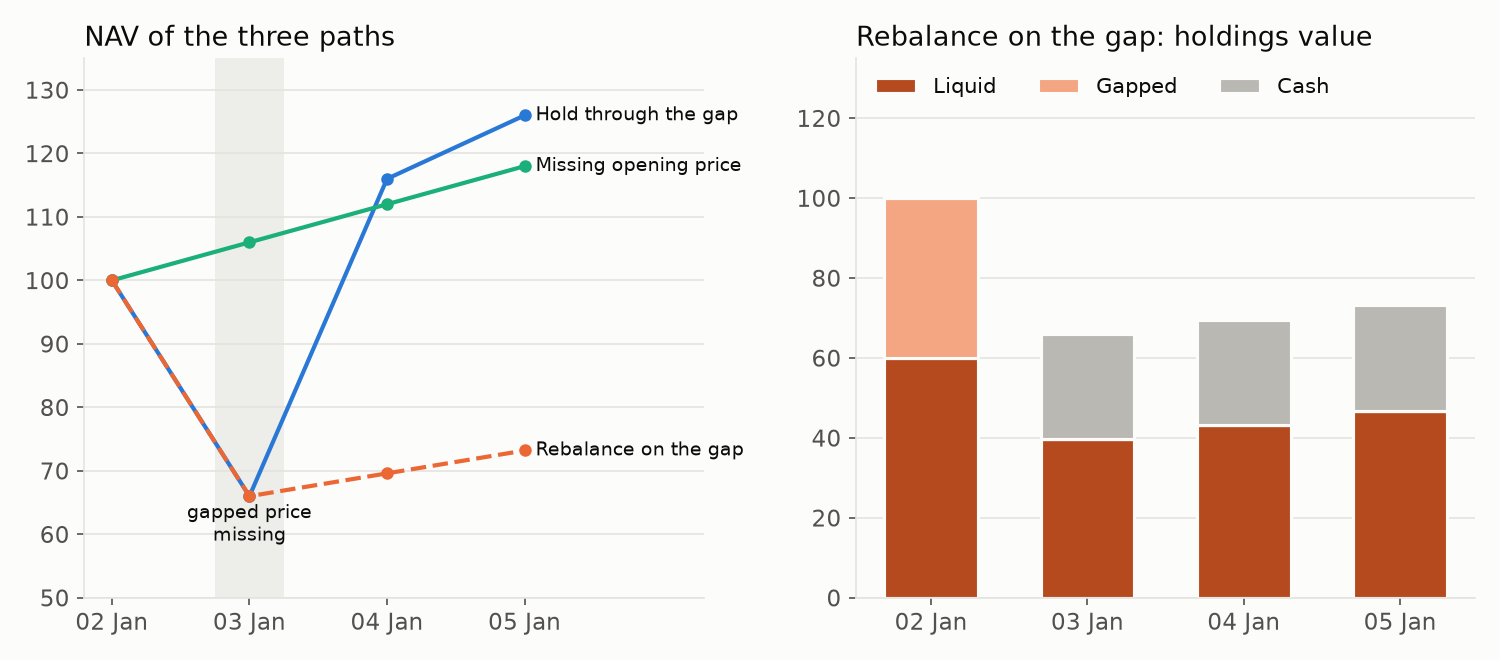
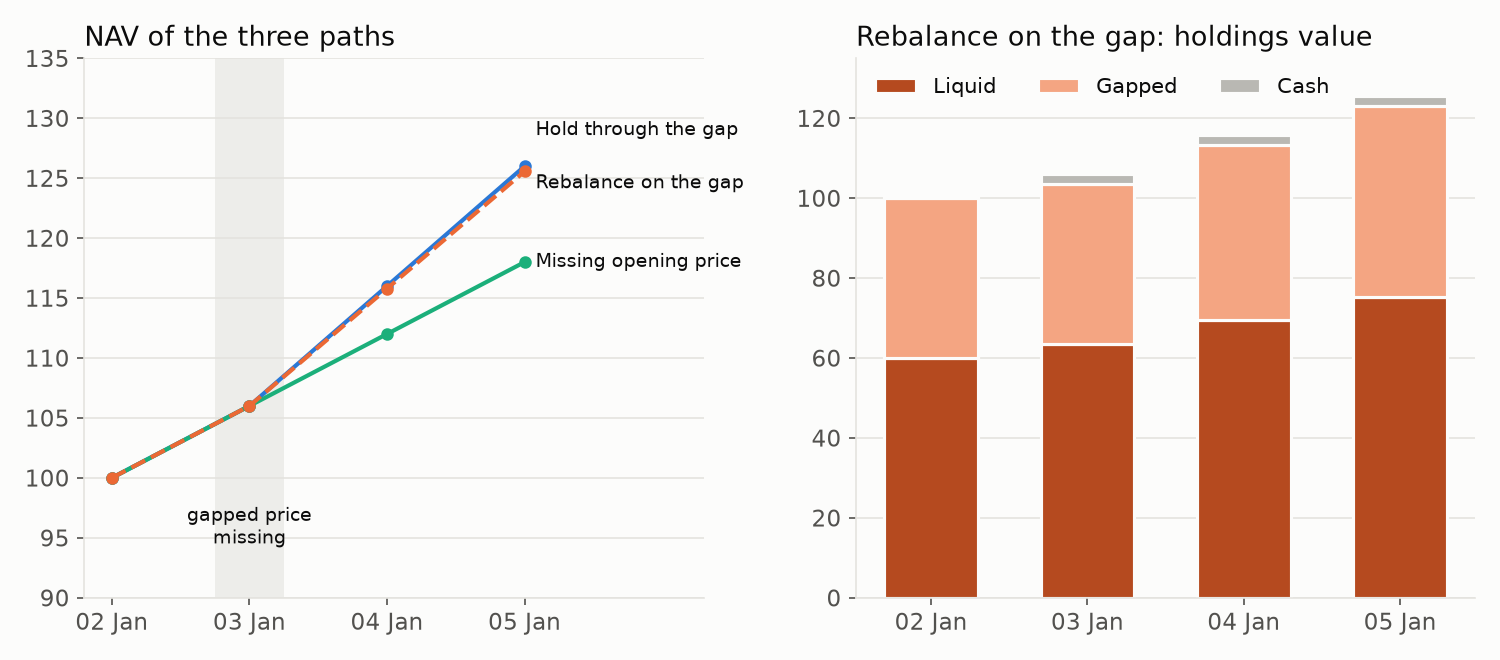
fix: keep dependency compatibility documentation checks current

diff --git a/examples/docs/incomplete_histories.py b/examples/docs/incomplete_histories.py
@@ -13,6 +13,7 @@ constants below and records their values.
 """
 from dataclasses import replace
 from fractions import Fraction
+from importlib.metadata import version
 
 import numpy as np
 import pandas as pd
@@ -22,13 +23,18 @@ LIQUID_PRICES = [100.0, 110.0, 120.0, 130.0]
 GAPPED_PRICES = [100.0, None, 110.0, 120.0]
 TARGET_WEIGHTS = [0.60, 0.40]
 
+# QIS 5.37 introduced last-known valuation marks and retained unquoted holdings.
+# Check each released contract independently; do not infer expected values from a backtest.
+RETAINS_MISSING_HOLDINGS = tuple(map(int, version('qis').split('.')[:2])) >= (5, 37)
+
 
 def currency_ledger() -> dict:
     """Units, NAV and cash of the three holdings paths, from exact fractions and one trade."""
     first_liquid, first_gapped = Fraction(3, 5), Fraction(2, 5)
-    priced_nav = first_liquid * 110
+    retained_gapped = first_gapped if RETAINS_MISSING_HOLDINGS else 0
+    priced_nav = first_liquid * 110 + retained_gapped * 100
     new_liquid = priced_nav * Fraction(3, 5) / 110
-    cash = (first_liquid - new_liquid) * 110
+    cash = priced_nav - new_liquid * 110 - retained_gapped * 100
     return {
         'held_gap': {
             'units': [[first_liquid, first_gapped]] * 4,
@@ -37,8 +43,9 @@ def currency_ledger() -> dict:
             'cash': [0] * 4,
         },
         'traded_gap': {
-            'units': [[first_liquid, first_gapped]] + [[new_liquid, 0]] * 3,
-            'nav': [100, priced_nav, new_liquid * 120 + cash, new_liquid * 130 + cash],
+            'units': [[first_liquid, first_gapped]] + [[new_liquid, retained_gapped]] * 3,
+            'nav': [100, priced_nav, new_liquid * 120 + retained_gapped * 110 + cash,
+                    new_liquid * 130 + retained_gapped * 120 + cash],
             'cash': [0, cash, cash, cash],
         },
         'late_entry': {
@@ -197,19 +204,27 @@ def main() -> None:
         np.testing.assert_allclose(portfolio.nav, np.array(expected["nav"], float), atol=1e-12)
         np.testing.assert_allclose(portfolio.units, np.array(expected["units"], float),
                                    atol=1e-12)
-        marked = (portfolio.units * portfolio.prices).sum(axis=1)
+        marks = portfolio.prices.ffill() if RETAINS_MISSING_HOLDINGS else portfolio.prices
+        marked = (portfolio.units * marks).sum(axis=1)
         np.testing.assert_allclose(portfolio.nav - marked, np.array(expected["cash"], float),
                                    atol=1e-12)
         np.testing.assert_allclose(portfolio.realized_costs, 0, atol=0)
     # The page's table, and the units and cash its paragraph quotes.
     table = np.array([ledger[name]["nav"] for name in paths], float).T
-    np.testing.assert_allclose(table, [[100.00, 100.00, 100.00], [66.00, 66.00, 106.00],
-                                       [116.00, 69.60, 112.00], [126.00, 73.20, 118.00]],
-                               atol=0.005)
-    assert float(ledger["traded_gap"]["units"][1][0]) == 0.36
-    assert float(ledger["traded_gap"]["cash"][1]) == 26.4
-    # Both interior gaps and both missing execution quotes are reported.
-    assert sum("inside the reported history" in m for m in warning_messages) == 2
+    if RETAINS_MISSING_HOLDINGS:
+        displayed = [[100.00, 100.00, 100.00], [106.00, 106.00, 106.00],
+                     [116.00, 115.78, 112.00], [126.00, 125.56, 118.00]]
+        assert ledger["traded_gap"]["units"][1] == [Fraction(159, 275), Fraction(2, 5)]
+        assert ledger["traded_gap"]["cash"][1] == Fraction(12, 5)
+        assert sum("units are retained without trading" in m for m in warning_messages) == 2
+    else:
+        displayed = [[100.00, 100.00, 100.00], [66.00, 66.00, 106.00],
+                     [116.00, 69.60, 112.00], [126.00, 73.20, 118.00]]
+        assert float(ledger["traded_gap"]["units"][1][0]) == 0.36
+        assert float(ledger["traded_gap"]["cash"][1]) == 26.4
+        assert sum("inside the reported history" in m for m in warning_messages) == 2
+    np.testing.assert_allclose(table, displayed, rtol=0, atol=0.005)
+    # Missing execution quotes remain explicit even when an existing position is retained.
     assert sum("have no price on their traded date" in m for m in warning_messages) == 2
     for name, portfolio in holdings_paths().items():
         pd.testing.assert_series_equal(portfolio.nav, paths[name].nav, check_freq=False)
@@ -280,10 +295,8 @@ def exhibit(path) -> dict:
               'late_entry': 'Missing opening price'}
     nav = pd.DataFrame({labels[name]: portfolio.nav for name, portfolio in paths.items()})
     traded = paths['traded_gap']
-    composition = pd.DataFrame({
-        'Liquid': traded.units['Liquid'] * traded.prices['Liquid'],
-        'Gapped': (traded.units['Gapped'] * traded.prices['Gapped']).fillna(0.0),
-    })
+    marks = traded.prices.ffill() if RETAINS_MISSING_HOLDINGS else traded.prices
+    composition = (traded.units * marks).fillna(0.0)
     composition['Cash'] = traded.nav - composition.sum(axis=1)
     table = pd.concat([nav, composition.add_prefix('rebalance on gap: ')], axis=1)
 
@@ -299,11 +312,15 @@ def exhibit(path) -> dict:
         dashed = label == labels['traded_gap']
         left.plot(x, series, color=colour, linewidth=2, marker='o', markersize=5,
                   linestyle='--' if dashed else '-', zorder=3 if dashed else 2)
-        left.text(x[-1] + 0.08, series.iloc[-1], label, color=ink, fontsize=9, va='center')
+        offset = (3 if label == labels['held_gap'] else -1 if dashed else 0)
+        offset = offset if RETAINS_MISSING_HOLDINGS else 0
+        left.text(x[-1] + 0.08, series.iloc[-1] + offset, label, color=ink, fontsize=9,
+                  va='center')
     left.axvspan(0.75, 1.25, color=grid, alpha=0.6, linewidth=0)
-    left.text(1.0, 58, 'gapped price\nmissing', color=ink, fontsize=9, ha='center', va='bottom')
+    left.text(1.0, 94 if RETAINS_MISSING_HOLDINGS else 58, 'gapped price\nmissing',
+              color=ink, fontsize=9, ha='center', va='bottom')
     left.set_title('NAV of the three paths', loc='left', color=ink)
-    left.set_ylim(50, 135)
+    left.set_ylim(90 if RETAINS_MISSING_HOLDINGS else 50, 135)
     left.set_xlim(-0.2, 4.3)
     bottom = np.zeros(len(composition))
     # Shades of the rebalance path's orange: these are its holdings, not the other paths.
@@ -328,8 +345,10 @@ def exhibit(path) -> dict:
         'nav_matches_ledger': bool(all(
             np.allclose(paths[name].nav, np.array(ledger[name]['nav'], float), atol=1e-12)
             for name in paths)),
-        'gapped_units_cleared_on_rebalance': bool(traded.units['Gapped'].iloc[1:].eq(0).all()),
-        'cash_left_after_clearing': bool(np.isclose(composition['Cash'].iloc[1], 26.4)),
+        'gapped_units_follow_released_contract': bool(traded.units['Gapped'].iloc[1:].eq(
+            TARGET_WEIGHTS[1] if RETAINS_MISSING_HOLDINGS else 0).all()),
+        'cash_matches_exact_ledger': bool(np.allclose(
+            composition['Cash'], np.array(ledger['traded_gap']['cash'], float), atol=1e-12)),
     }
     return {'table': table, 'checks': checks}
 

diff --git a/examples/docs/rolling_backtests.py b/examples/docs/rolling_backtests.py
@@ -20,6 +20,8 @@ import warnings
 import numpy as np
 import pandas as pd
 
+from examples.docs.incomplete_histories import RETAINS_MISSING_HOLDINGS
+
 # The exhibit's synthetic panel: business-day prices with these annual log drifts, volatilities
 # and correlations, and the page's minimum-variance path traded quarterly with lag one.
 EXHIBIT_ASSETS = ['Equity', 'Bonds', 'Diversifier']
@@ -363,8 +365,8 @@ def main() -> None:
                   prices=toy_prices, weights=tail.iloc[[-1]], weight_implementation_lag=1)
     assert_raises(ValueError, "resolve to", qis.backtest_model_portfolio,
                   prices=toy_prices.iloc[[0, 3]], weights=tail.iloc[[1, 2]])
-    # A missing execution price leaves that target weight in cash; an interior hole in a held
-    # asset's history removes its value from that observation's NAV.
+    # A missing opening execution price leaves that target weight in cash. Since QIS 5.37,
+    # an interior gap retains held units at the last observed valuation mark.
     unpriced_entry = toy_prices.astype(float)
     unpriced_entry.loc[toy_dates[1], "B"] = np.nan
     with expected_warning("have no price on their traded date"):
@@ -373,10 +375,15 @@ def main() -> None:
     assert stuck.units.loc[toy_dates[1], "B"] == 0.0 and stuck.nav.loc[toy_dates[1]] == 100.0
     holed = toy_prices.astype(float)
     holed.loc[toy_dates[2], "B"] = np.nan
-    with expected_warning("inside the reported history"):
+    gap_warning = "units are retained without trading" if RETAINS_MISSING_HOLDINGS else (
+        "inside the reported history")
+    with expected_warning(gap_warning):
         gapped = qis.backtest_model_portfolio(prices=holed, weights=toy_targets.iloc[[0]],
                                               weight_implementation_lag=1)
-    assert abs(gapped.nav.loc[toy_dates[2]] - 55.0) < 1e-12
+    expected_gap_nav = 105.0 if RETAINS_MISSING_HOLDINGS else 55.0
+    assert abs(gapped.nav.loc[toy_dates[2]] - expected_gap_nav) < 1e-12
+    np.testing.assert_allclose(gapped.units.loc[toy_dates[2]],
+                               gapped.units.loc[toy_dates[1]], rtol=0, atol=0)
 
     import numpy as np
     import pandas as pd

diff --git a/src/optimalportfolios/tests/version_metadata_test.py b/src/optimalportfolios/tests/version_metadata_test.py
@@ -15,6 +15,7 @@ import re
 import datetime as dt
 from pathlib import Path
 import runpy
+import sys
 from types import SimpleNamespace
 from typing import Optional
 
@@ -90,6 +91,8 @@ def test_citation_cff_date_released_is_iso():
         f"date-released must be YYYY-MM-DD, got {data['date-released']!r}"
 
 
+@pytest.mark.skipif(sys.version_info < (3, 11),
+                    reason='The release helper runs on Python 3.11+ and imports tomllib.')
 @pytest.mark.parametrize('release_date, accepted', [
     ('2026-10-15', True), ('2026-10-16', True), ('2026-10-17', False),
 ])

diff --git a/docs/incomplete_histories.md b/docs/incomplete_histories.md
@@ -72,10 +72,11 @@ Leading missing prices record a period before the first observation; trailing mi
 record a period after the last. Neither establishes the economic reason for the boundary.
 Define an eligibility and valuation policy rather than inferring one from `NaN`.
 
-An interior gap falls between valid observations. Between rebalancings, qis retains units
-through such a gap but excludes the unpriced leg from that date's NAV. The resulting drop and
-recovery need not be investment returns. A gap on a rebalance date has a different outcome,
-described under [price gaps at implementation](#price-gaps-at-implementation).
+An interior gap falls between valid observations. From qis 5.37, a missing quote retains
+held units at their last observed valuation mark, including on a rebalance date; it never
+enables a trade. Earlier supported releases omit the unpriced value from that date's NAV
+and can clear units on a rebalance. The resulting drop and recovery need not be investment
+returns. The [price-gap contract](#price-gaps-at-implementation) distinguishes these versions.
 
 `EwmaCovarEstimator` passes `NanBackfill.ZERO_FILL` to qis. For the ordinary covariance tensor,
 a non-finite covariance update resets that entry of the recursive state to zero. This is
@@ -141,22 +142,24 @@ for the full fallback contract.
 
 ### Price gaps at implementation
 
-The following describes the qis implementation of the locked environment, which the canonical
-script of this page checks. A missing opening price yields zero units for that leg; its intended allocation remains cash and is not redistributed.
+The executable example checks both supported qis contracts. A missing opening price yields
+zero units for that leg; its intended allocation remains cash and is not redistributed.
 When prices later appear, entry waits for another scheduled rebalance.
 
-For an already-held leg, the outcome depends on whether a rebalance occurs:
+For an already-held leg:
 
-| Missing-price date | Units and valuation |
-|---|---|
-| Between rebalancings | Existing units remain; their unpriced value is omitted from NAV. |
-| On a rebalance | The kernel recomputes target units, replaces the missing-price result with zero, and excludes that leg from the cash-transfer calculation. Previously held units can therefore be cleared without liquidation proceeds. |
+| Missing-price date | qis 5.37 and later | Earlier supported qis releases |
+|---|---|---|
+| Between rebalancings | Retain units, valued at the last observed mark. | Retain units, but omit their unpriced value from NAV. |
+| On a rebalance | Retain unquoted units without trading; quoted targets use full marked NAV. | Clear the unquoted units without liquidation proceeds. |
 
-The second case is an implementation limitation, not a model of a suspended instrument or a
-delisting recovery. Inspect and resolve the price/trading policy before interpreting such a
-path. An interior-gap warning does not distinguish the two cases. See the
+Last-known marks support valuation, never execution. Available targets are not redistributed
+and no cash constraint is imposed, so an untradeable holding can prevent the intended target
+weights being reached. Missingness alone is neither a loss nor a liquidation: terminal events
+need explicit settlement prices and exit targets. The older clearing behavior is an
+implementation limitation. See the
 [qis backtester source](https://github.com/ArturSepp/QuantInvestStrats/blob/main/src/qis/portfolio/backtester.py)
-and the executable example below.
+and the independent currency ledger in the executable example.
 
 A frozen decision-date target is also not an execution-level unit lock. The qis backtester
 does not receive the optimizer's per-asset `rebalancing_indicators`. Implementation lag, changed
@@ -275,32 +278,40 @@ with warnings.catch_warnings(record=True) as captured_warnings:
 warning_messages = [str(item.message) for item in captured_warnings]
 ```
 
+With qis 5.37 or later, the three NAV paths are:
+
 | Date | Hold through gap: NAV | Rebalance on gap: NAV | Missing opening price: NAV |
 |---|---:|---:|---:|
 | 2024-01-02 | 100.00 | 100.00 | 100.00 |
-| 2024-01-03 | 66.00 | 66.00 | 106.00 |
-| 2024-01-04 | 116.00 | 69.60 | 112.00 |
-| 2024-01-05 | 126.00 | 73.20 | 118.00 |
+| 2024-01-03 | 106.00 | 106.00 | 106.00 |
+| 2024-01-04 | 116.00 | 115.78 | 112.00 |
+| 2024-01-05 | 126.00 | 125.56 | 118.00 |
 
-The held-gap path owns 0.6 liquid units and 0.4 gapped units throughout. In the rebalance-on-gap
-path, 3 January changes those holdings to 0.36 and zero, with cash 26.40. The original gapped
-units do not return when their price returns. The late-entry path owns 0.6 liquid units,
-zero gapped units and cash 40 throughout. Its missing allocation is never redistributed.
+The held-gap path owns 0.6 liquid units and 0.4 gapped units throughout. On 3 January,
+the rebalance-on-gap path sizes its quoted liquid target on marked NAV 106, so it holds
+$106 \times 0.60 / 110 = 159/275$ liquid units. The 0.4 unquoted gapped units remain,
+valued at 40, leaving cash $106 - 63.60 - 40 = 2.40$. The late-entry path owns 0.6 liquid
+units, zero gapped units and cash 40 throughout; its missing allocation is never redistributed.
 
-![Left: NAV of the three paths over four business days; the hold-through-gap and
-rebalance-on-gap paths both fall to 66 on 3 January, when the gapped price is missing, after
-which the held path recovers to 126 and the rebalanced path stays near 70; the missing-opening-price
-path rises from 100 to 118. Right: in the rebalance-on-gap path, the gapped holding is replaced
-by cash of 26.40 from 3 January and never returns.](images/incomplete_histories_price_gaps.png)
+Earlier supported qis releases produce held-gap NAV `[100, 66, 116, 126]` and
+rebalance-on-gap NAV `[100, 66, 69.60, 73.20]`. The latter changes the holdings to
+0.36 liquid units and zero gapped units on 3 January, with cash 26.40. Those gapped units
+never return. The late-entry path is unchanged. The canonical script selects the expected
+released contract by the installed qis version and checks it against exact fractions.
 
-*Figure: the three holdings paths of the example, and the holdings of the rebalance-on-gap path.
-Drawn by the `exhibit` function of the canonical script; the
+![Left: NAV of the three paths with retained unquoted holdings; all reach 106 on 3 January,
+then the hold-through-gap and rebalance-on-gap paths end at 126 and 125.56, while the
+missing-opening-price path ends at 118. Right: the rebalance-on-gap path retains the gapped
+holding and leaves cash 2.40 from 3 January.](images/incomplete_histories_price_gaps.png)
+
+*Figure: the three holdings paths under the retained-holdings contract, and the holdings of
+the rebalance-on-gap path. Drawn by the `exhibit` function of the canonical script; the
 [analytics gallery](analytics_gallery.md) lists its provenance.*
 
-> **Pitfall.** A missing price on a rebalance date clears a held position without liquidation
-> proceeds: the gapped units become zero and do not return when the price does. An optimizer
-> freeze does not prevent this, because qis never receives it. Resolve the missing price, or
-> pass no target on that date, as in the hold-through-gap path.
+> **Pitfall.** A stale valuation mark is not an executable quote. The gapped units remain
+> frozen even if their target changes. Quoted assets can still trade, so the realized
+> weights and cash can differ from the target. Older qis releases can clear unquoted
+> units without proceeds; resolve the price policy before interpreting those paths.
 
 ### Filtering is separate from history eligibility
 

diff --git a/docs/analytics_gallery.md b/docs/analytics_gallery.md
@@ -214,11 +214,12 @@ quarterly signal is carried unchanged between quarter ends.
 
 ## Incomplete histories
 
-A teaching exhibit of the [incomplete histories](incomplete_histories.md) page. A price missing
-between rebalancings lowers NAV only until the price returns; the same gap on a rebalance date
-clears the held units without proceeds; a missing opening price leaves that allocation in cash.
+A teaching exhibit of the [incomplete histories](incomplete_histories.md) page. Under the
+retained-holdings contract, a missing quote keeps held units at the last observed valuation
+mark, including on a rebalance date. Quoted assets can still trade; a missing opening price
+leaves that allocation in cash. The article also documents the earlier clearing behavior.
 
-![Left: NAV of the hold-through-gap, rebalance-on-gap and missing-opening-price paths over four business days. Right: the rebalance-on-gap path's holdings, with the gapped position replaced by cash.](images/incomplete_histories_price_gaps.png)
+![Left: NAV of the hold-through-gap, rebalance-on-gap and missing-opening-price paths over four business days. Right: the rebalance-on-gap path retains its gapped holding and leaves cash 2.40.](images/incomplete_histories_price_gaps.png)
 
 **Sample:** two synthetic assets over four business days in January 2024, with one missing
 price; no simulation. **Producer:** the `exhibit` function of

diff --git a/docs/rolling_backtests.md b/docs/rolling_backtests.md
@@ -349,9 +349,11 @@ offline examples lane of CI.
   within that history. An asset with no usable anchor is treated as having zero return;
   other positions still affect portfolio NAV growth. Missing prefixes, absent previous targets,
   near-zero targets or nonpositive NAV growth can leave the entire prior target unchanged.
-- **Unavailable execution prices.** qis cannot trade a target at a missing price. Interior
-  holes in a held asset's price history can also remove its value from that observation's NAV.
-  The drift helper's defensive policy does not validate a panel for performance measurement.
+- **Unavailable execution prices.** qis cannot trade a target at a missing price. From qis
+  5.37, held units retain their last observed valuation mark without trading. Earlier supported
+  releases omit an unpriced holding from NAV and can clear its units on a rebalance.
+  The canonical script checks both released contracts; the drift helper does not validate a
+  panel for performance measurement.
   See [incomplete histories](incomplete_histories.md).
 - **Execution-grid boundaries.** Targets whose implementation would be beyond the price panel
   are dropped with a warning; no executable target raises an error. Two decision dates mapping

diff --git a/CHANGELOG.md b/CHANGELOG.md
@@ -7,6 +7,11 @@ and the project follows [Semantic Versioning](https://semver.org/spec/v2.0.0.htm
 
 ## Unreleased
 
+- Keep executable missing-price documentation compatible with both the QIS dependency floor
+  and its retained-holdings behavior from 5.37; refresh the holdings exhibit and provenance.
+- Skip the Python 3.11+ release-helper calendar check on Python 3.10, while retaining the
+  runtime metadata checks on every supported interpreter.
+
 ## [7.21.0] - 2026-10-16
 
 - Validate release calendar dates in the publication timezone, including around
